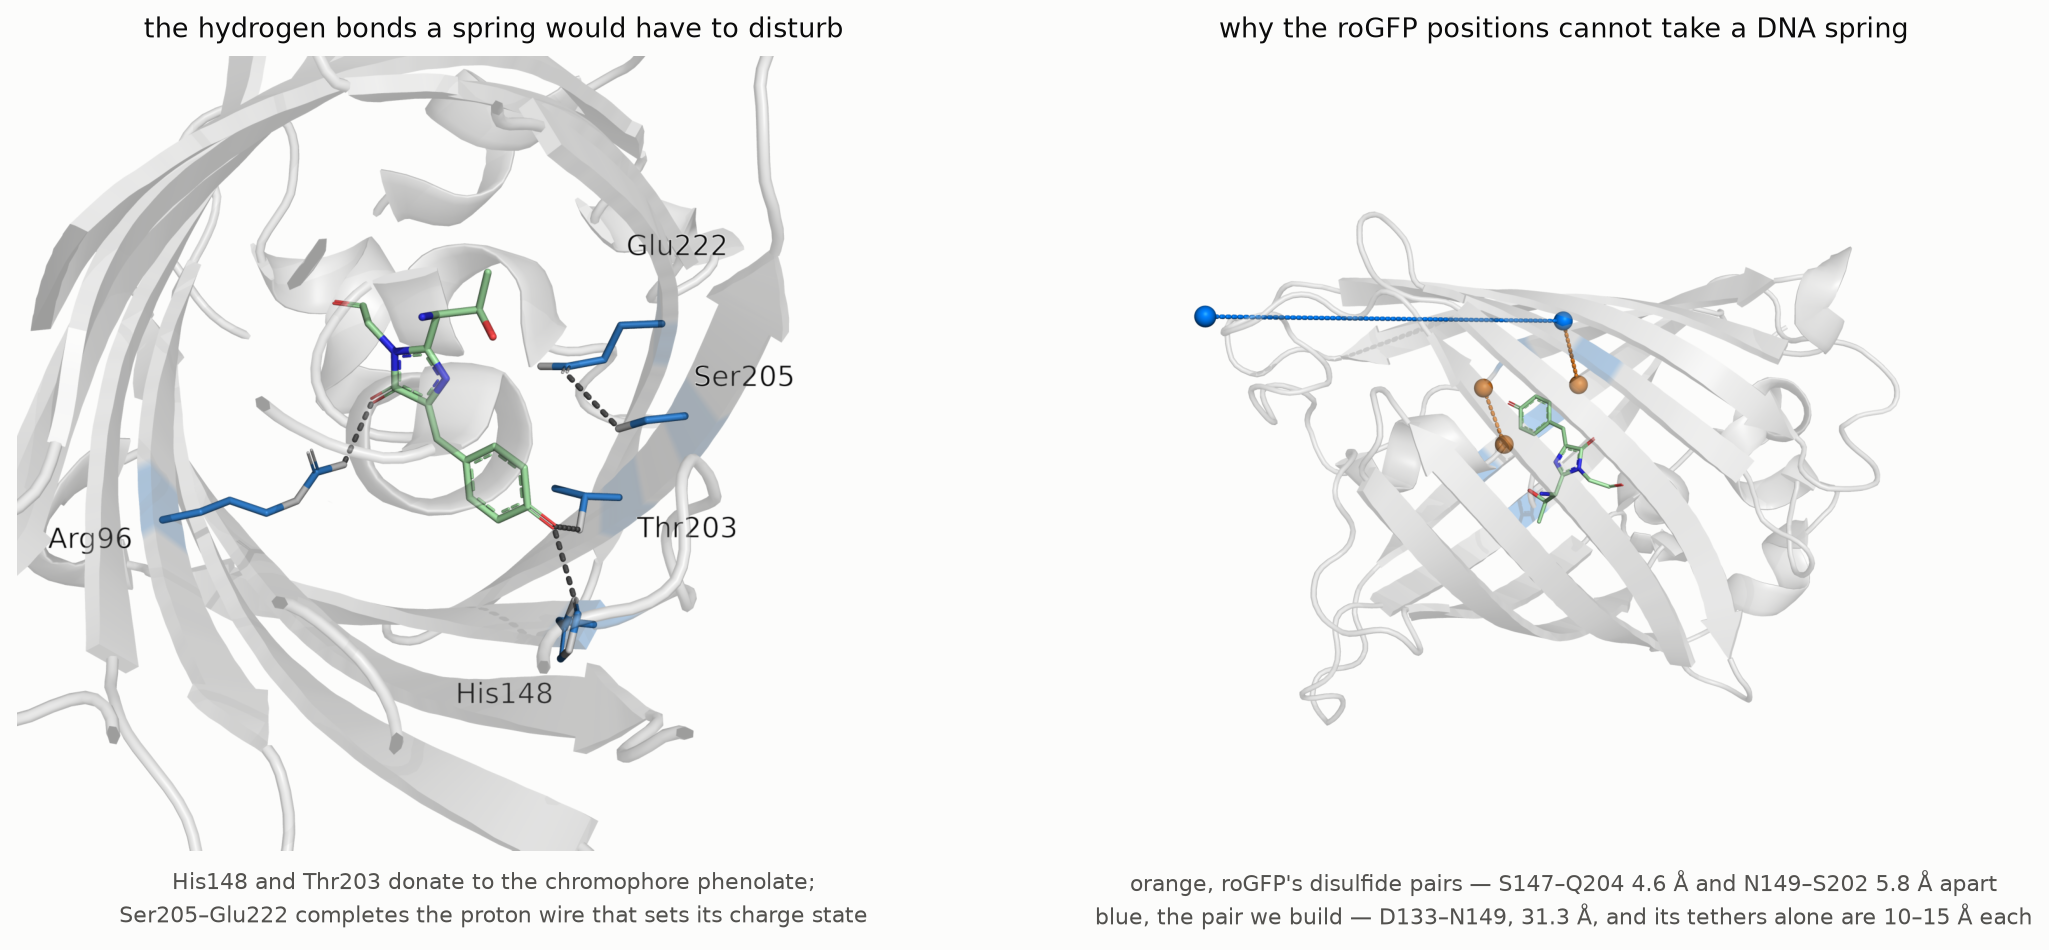
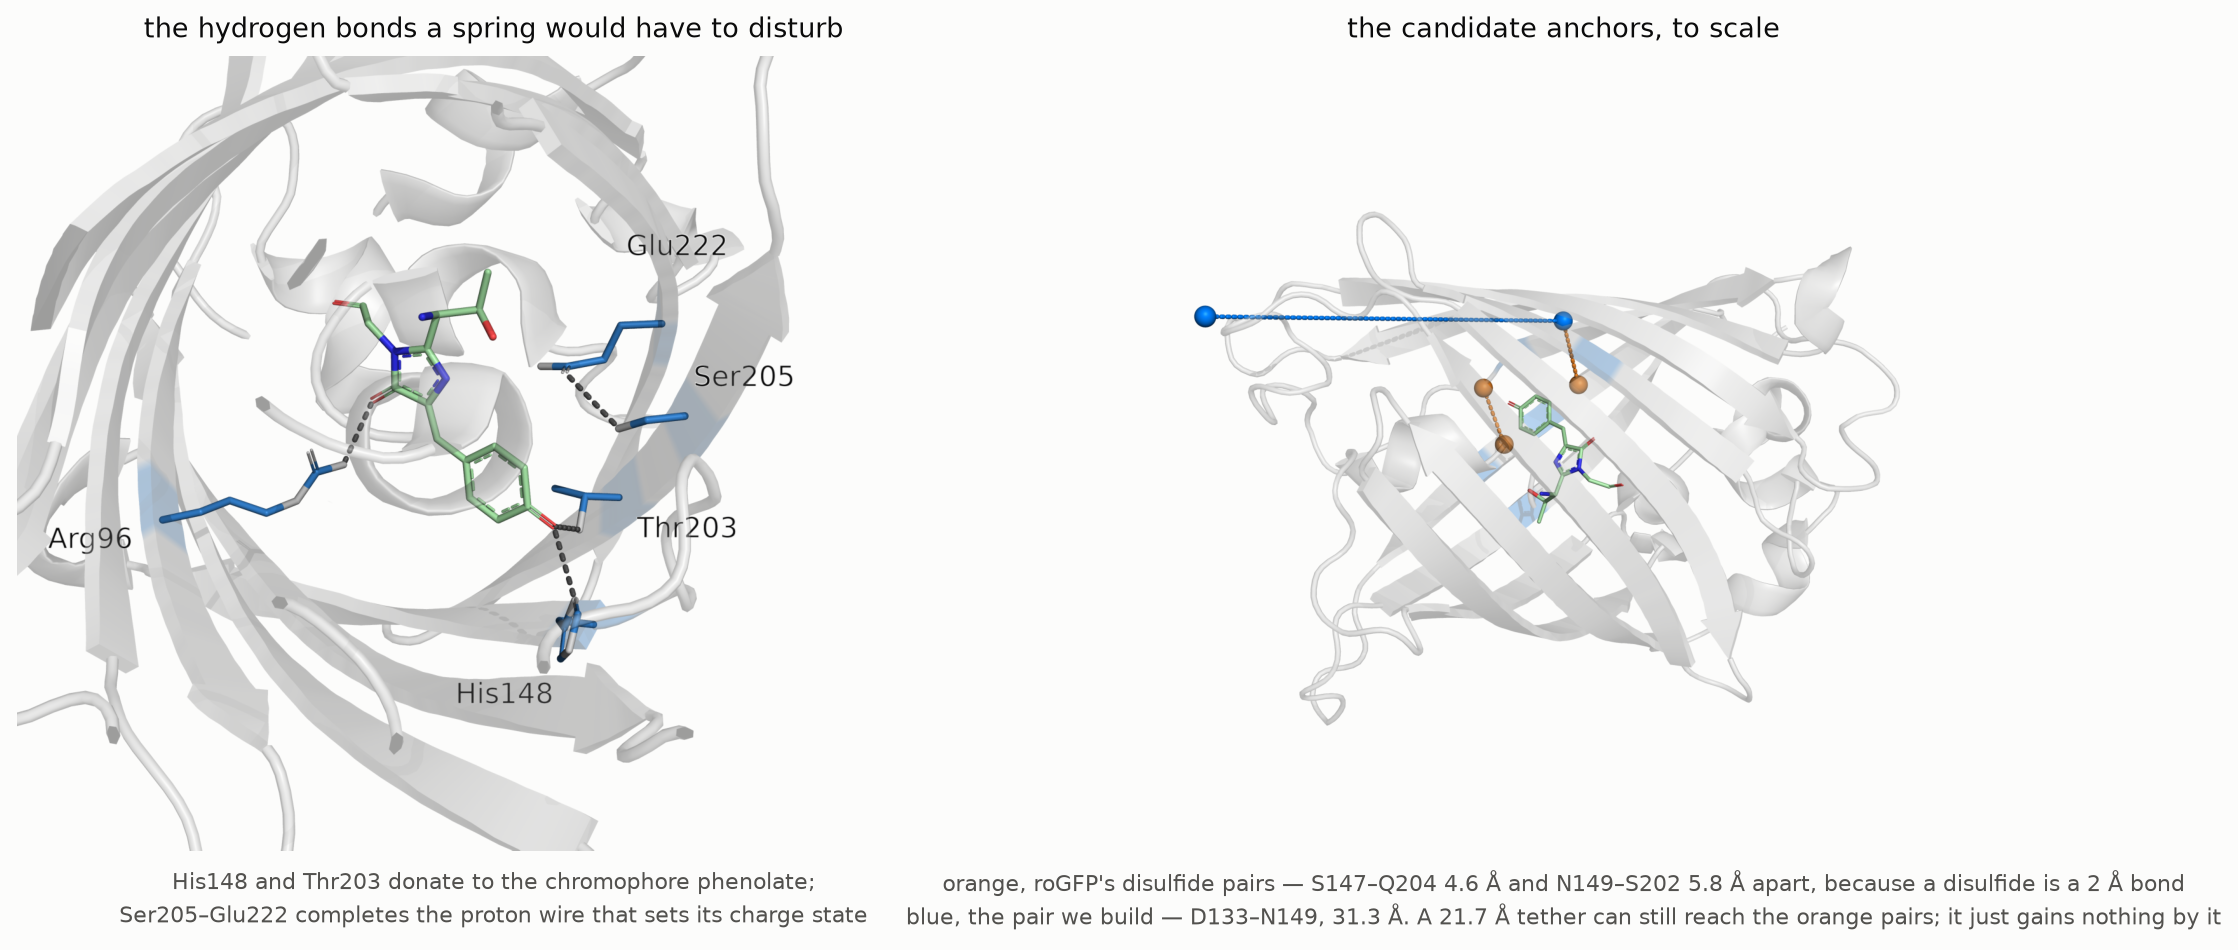
Retract my geometric objection: the roGFP positions ARE attachable
Working out what alternative click chemistries would change forced me to check the
tether arithmetic properly, and my central claim on that page does not survive it.

I wrote that a DNA spring "needs its anchors ~30 A apart" and therefore could not be
attached at roGFP's 4.6-5.9 A pairs at all. That reasoning is wrong. A tether ADDS
reach; it does not impose a minimum anchor separation. Measured on the built chimera,
each arm spans 21.7 A from protein C-beta to DNA phosphorus -- 12.4-13.3 A of clicked
tetrazine-TCO adduct plus 10.8 A of the DNA's amino-modifier arm -- so

    maximum span = C-beta separation + 2 x tether

and anchors 4.6 A apart can hold a duplex spanning up to 48 A. A 27 bp duplex there
delivers 4.6 pN, against 7.2 pN at the built geometry. Attachment is not the barrier.

The real objection is narrower and I have replaced the section with it: reaching those
pairs needs both arms at 100% of their contour, where an arm has no configurational
entropy left, its own entropic restoring force opposes the spring, and any fluctuation
that shortens the span lets it go slack and transmit nothing. The built pair sits at
89-93%, which has margin. And the reward for that fragility is LESS force, not more.
So the honest answer to "re-site to the chromophore strands" is: you can, and it buys
you nothing.

The figure's caption claimed the same wrong thing and has been rewritten, along with
its docstring, to say what the picture does and does not establish.
[…]

diff --git a/MD simulations/sfGFP/analysis/tether_tradeoff.py b/MD simulations/sfGFP/analysis/tether_tradeoff.py
@@ -1,0 +1,112 @@
+#!/usr/bin/env python3
+"""What the choice of click chemistry costs in force and buys in reach.
+
+The two things a linker length controls
+---------------------------------------
+Measured on the built chimera L3_loop27, each tether spans 21.7 A from the protein's
+C-beta to the DNA backbone phosphorus: 12.4-13.3 A of clicked tetrazine-TCO adduct plus
+10.8 A of the DNA's own amino-modifier arm.  That single number sets two things at once,
+and they pull in opposite directions.
+
+REACH.  The duplex ends can be at most (C-beta separation + 2 x tether) apart, so a
+LONGER tether reaches anchor pairs that are closer together on the protein.
+
+FORCE.  This is the part I got backwards on the first pass, and the model settles it.
+At 27 bp the contour is 89.1 A and the kink threshold x_c is 85.7 A, so every span our
+geometry produces (59-75 A) sits on the circular-arc branch below x_c, where
+
+    f = tau_c / (2R sqrt(1 - (x/2R)^2))
+
+and 2R = 88.5 A.  That expression DIVERGES as x approaches 2R -- the force is what it
+takes to STRAIGHTEN an already-kinked rod, and bending it further is cheap.  So force
+RISES with span, and a shorter tether, which shortens the span, LOWERS the force.
+
+Both quantities therefore improve with a LONGER tether, which sounds like a free lunch
+and is not: a long arm of rotatable bonds is a leash, not a strut, and takes up the
+spring's extension entropically instead of transmitting it.  The real currency is tether
+RIGIDITY, which no amount of geometry can compute -- so this script reports the geometry
+honestly and says where the argument has to stop.
+
+    python analysis/tether_tradeoff.py
+"""
+from __future__ import annotations
+
+import sys
+from pathlib import Path
+
+sys.path.insert(0, str(Path(__file__).resolve().parent))
+import spring_model as SM       # noqa: E402
+
+CB_CB_NM = 3.13                 # measured, ASP133-ASN149 in 2B3P
+TETHER_NOW_NM = 2.17            # measured, C-beta to DNA phosphorus in L3_loop27
+
+# Candidate linkages and the tether each would give, in nm from protein C-beta to the DNA
+# phosphorus. The DNA-side amino-modifier arm (1.08 nm as built) is counted in every case
+# because every chemistry needs some arm on the oligo; only the protein-side adduct
+# changes. These are estimates from the adduct's heavy-atom count and are labelled as
+# such -- the measured value is the tetrazine-TCO one.
+LINKERS = [
+    ("tetrazine-TCO (current, MEASURED)", 2.17),
+    ("tetrazine on DNA, BCN on protein", 1.85),
+    ("SPAAC, DBCO on DNA + azide-Lys",   1.75),
+    ("SPAAC, BCN on protein + azide-DNA", 1.70),
+    ("CuAAC, propargyl-Lys + azide-DNA", 1.50),
+    ("maleimide-cysteine + short arm",   1.40),
+]
+
+
+def main():
+    print(f"  anchors {CB_CB_NM * 10:.1f} A apart (D133-N149); tether now "
+          f"{TETHER_NOW_NM * 10:.1f} A per side, measured\n")
+
+    print("  === FORCE: what each linkage would deliver from the same 27 bp duplex ===\n")
+    print(f"  {'linkage':38s} {'tether':>7} {'span x':>8} {'force':>9} {'state':>10}")
+    base = None
+    for name, arm in LINKERS:
+        x = SM.span(CB_CB_NM, arm)                      # nm
+        s = SM.Spring(n_bp=27, tau_c=SM.TAU_C_CONTINUOUS)
+        try:
+            f = s.force(x)
+            st = s.state(x) if hasattr(s, "state") else ""
+        except Exception as e:                           # noqa: BLE001
+            f, st = float("nan"), f"({type(e).__name__})"
+        if base is None:
+            base = f
+        print(f"  {name:38s} {arm*10:6.1f} A {x*10:7.1f} A {f:8.2f} pN {st:>10}"
+              + ("" if base in (None, 0) or f != f else f"   {f/base:.2f}x"))
+
+    print("\n  === REACH: the closest anchor pair each linkage could span ===\n")
+    print("  A 27 bp duplex bent to its kinked branch sits with its ends roughly")
+    print("  5.2-7.3 nm apart in our builds. To attach it, the anchors must satisfy")
+    print("  span = C-beta + 2 x tether, so the CLOSEST reachable pair is:\n")
+    print(f"  {'linkage':38s} {'tether':>7} {'closest anchors':>16}")
+    X_MIN_NM = 5.2
+    for name, arm in LINKERS:
+        closest = max(0.0, X_MIN_NM - 2 * arm)
+        note = ""
+        if closest * 10 < 6.0:
+            note = "  <- would reach the roGFP pairs"
+        print(f"  {name:38s} {arm*10:6.1f} A {closest*10:14.1f} A{note}")
+
+    print("\n  === what this actually means for the choice of chemistry ===")
+    need = (X_MIN_NM - 0.46) / 2
+    print("  Both force and reach improve with a LONGER tether, not a shorter one, because")
+    print(f"  every span we produce sits below x_c and f diverges as x -> 2R. So on")
+    print("  geometry alone, every alternative chemistry in the table is WORSE than what")
+    print("  is already built: they are all shorter, and all deliver less force.")
+    print()
+    print(f"  Reaching the roGFP pairs would need ~{need*10:.0f} A of tether per side,")
+    print("  more than double the 21.7 A we have. But a 24 A arm of rotatable bonds is a")
+    print("  leash, not a strut: it would absorb the spring's extension entropically")
+    print("  rather than transmit it. Length buys reach on paper and loses it in physics,")
+    print("  and nothing in this calculation captures that -- it is a question about")
+    print("  tether STIFFNESS, which needs simulation of the specific adduct, not algebra.")
+    print()
+    print("  So the honest conclusion from geometry is narrow: no alternative chemistry")
+    print("  improves the mechanics, and the case for changing one has to be made on")
+    print("  SPECTROSCOPY -- getting the tetrazine chromophore away from the chromophore")
+    print("  -- rather than on force or reach.")
+
+
+if __name__ == "__main__":
+    main()

diff --git a/MD simulations/sfGFP/analysis/fig_attachment_sites.py b/MD simulations/sfGFP/analysis/fig_attachment_sites.py
@@ -2,18 +2,21 @@
 """Where the chromophore's hydrogen bonds are, and why the roGFP positions cannot take
 a DNA spring.
 
-The argument this figure has to carry
--------------------------------------
+What this figure shows, and what it does not
+--------------------------------------------
 A memo proposed moving our spring anchors to the positions roGFP uses for its redox
 disulfide -- Ser147/Gln204 and Asn149/Ser202 -- because those strands carry the
-chromophore's own hydrogen bonds and constraining them is known to swing the 400/490 nm
-excitation equilibrium.  The reasoning is sound and the target is right; the geometry is
-not.  A disulfide is a 2 A covalent bond, so roGFP's pairs sit 4.6-5.9 A apart.  A DNA
-spring needs ~31 A between anchors, because each tether -- the Tet2-Et side chain, the
-sTCO adduct, the DNA's own terminal arm -- is 10-15 A on its own.
+chromophore's own hydrogen bonds.  The target is well chosen.  This figure shows where
+those positions are relative to the chromophore's hydrogen-bond network, and how far
+apart they are compared with the pair we actually build.
 
-A reader should be able to see that in one glance, so the two panels are drawn to the
-same scale with the distances measured on the structure rather than annotated by hand.
+It does NOT show that a spring cannot be attached there, and an earlier caption claimed
+it did.  That claim was wrong: a tether adds reach rather than imposing a minimum anchor
+separation, and the measured 21.7 A arms can reach a 48 A span from anchors 4.6 A apart.
+The real objection is that doing so needs both arms at 100% of their contour -- a
+knife-edge working point -- and delivers 4.6 pN where the built geometry gives 7.2.  That
+is an argument from numbers, not from a picture, so it lives in the page rather than
+here.
 """
 from __future__ import annotations
 
@@ -140,14 +143,15 @@ def compose():
 
     ax = fig.add_subplot(gs[0, 1])
     ax.imshow(mpimg.imread(OUT / "_att_panelB.png")); ax.axis("off")
-    ax.set_title("why the roGFP positions cannot take a DNA spring",
+    ax.set_title("the candidate anchors, to scale",
                  fontsize=11.5, color=VS.INK, pad=8)
     ax.text(0.5, -0.02,
             f"orange, roGFP's disulfide pairs — S147–Q204 "
             f"{P['S147-Q204']['cb_cb_A']:.1f} Å and N149–S202 "
-            f"{P['N149-S202']['cb_cb_A']:.1f} Å apart\n"
+            f"{P['N149-S202']['cb_cb_A']:.1f} Å apart, because a disulfide is a 2 Å bond\n"
             f"blue, the pair we build — D133–N149, "
-            f"{P['D133-N149']['cb_cb_A']:.1f} Å, and its tethers alone are 10–15 Å each",
+            f"{P['D133-N149']['cb_cb_A']:.1f} Å. A 21.7 Å tether can still reach the "
+            f"orange pairs; it just gains nothing by it",
             transform=ax.transAxes, ha="center", va="top", fontsize=9.4,
             color=VS.INK_2, linespacing=1.5)
 
